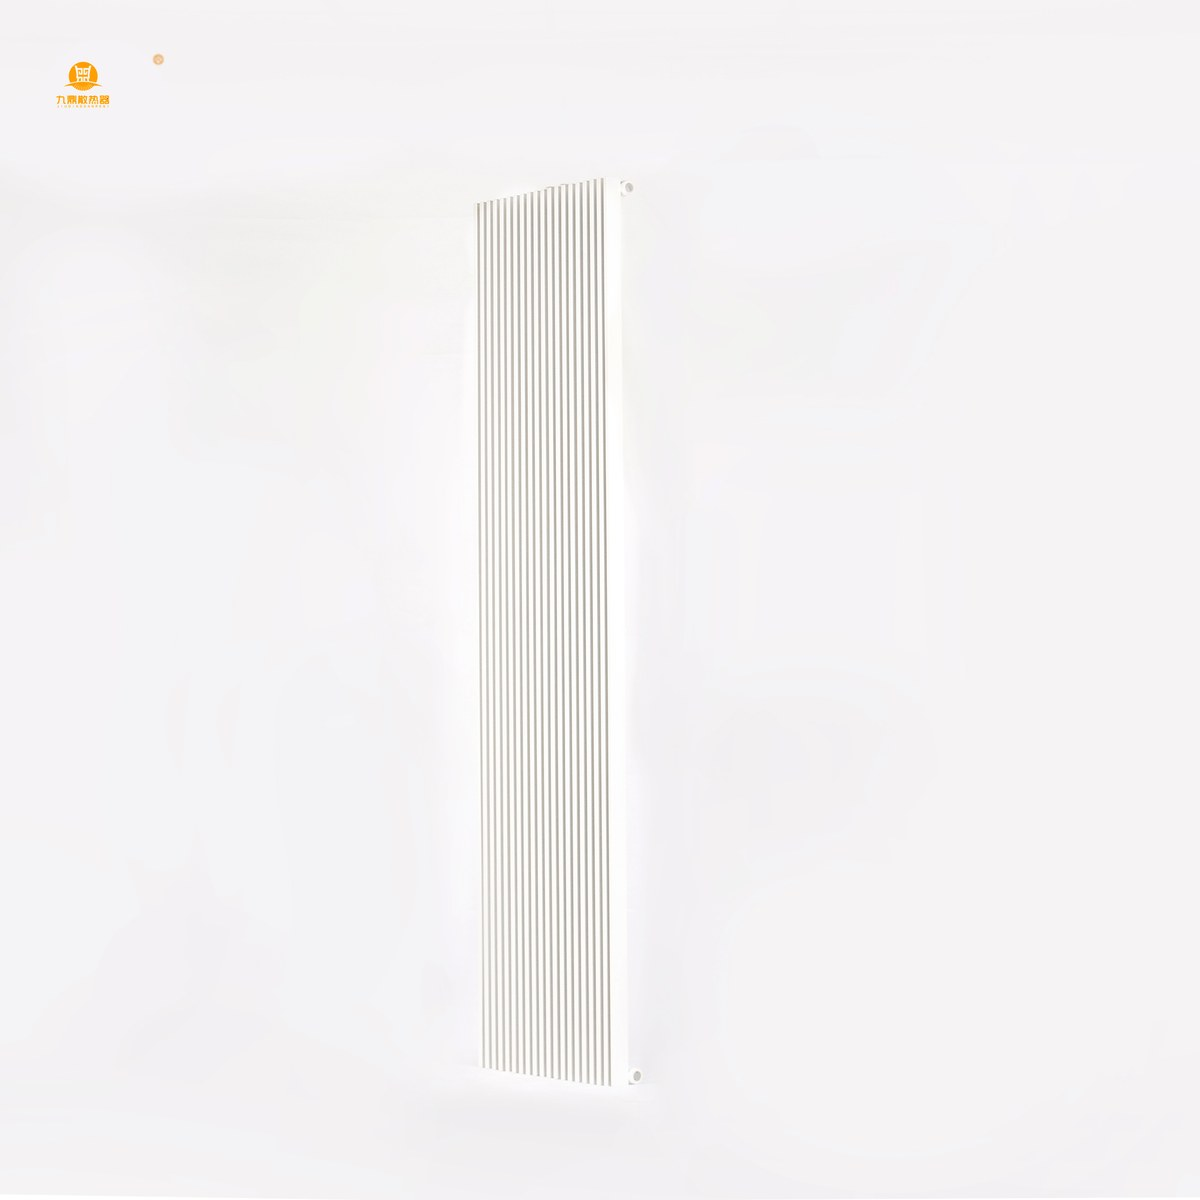
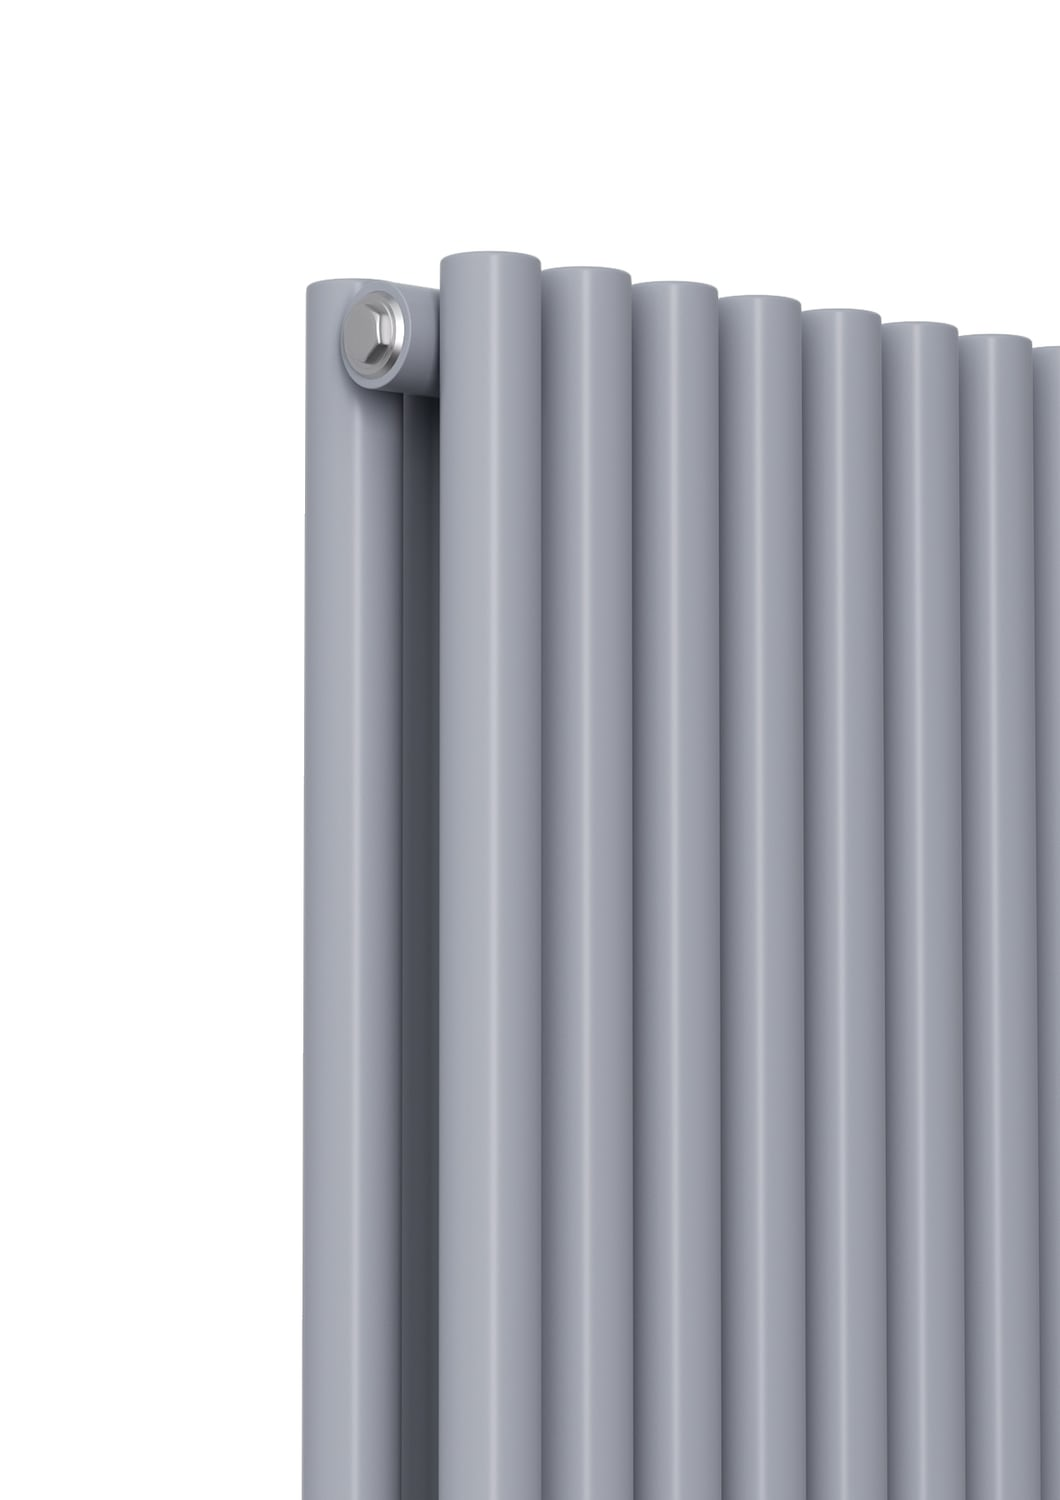
feat(products): JD25Y pilot — HD 3D-render images + product overview copy
Replace the washed-out white-on-white JD25Y photos with high-res renders from
the product-modelling library: living-room scene as the cover, clean white-bg
product shot, oval-tube close-ups, and a full front view. Add an optional
per-product/per-locale description (rendered above the spec table) and write
the JD25Y overview in zh + en. Other products are unaffected — the overview
only renders when a description exists.

diff --git a/lib/products.ts b/lib/products.ts
@@ -254,7 +254,7 @@ export const subtitleByLocale: Record<string, Record<string, string>> = {
 
 export const productImages: Record<string, string[]> = {
   "jd50f": ["/assets/products/jd50f/hero.jpg", "/assets/products/jd50f/gallery-1.jpg", "/assets/products/jd50f/detail-1.jpg", "/assets/products/jd50f/gallery-2.jpg", "/assets/products/jd50f/gallery-3.jpg", "/assets/products/jd50f/gallery-4.jpg", "/assets/products/jd50f/scene-1.jpg", "/assets/products/jd50f/scene-2.jpg"],
-  "jd25y": ["/assets/products/jd25y/hero.jpg", "/assets/products/jd25y/gallery-1.jpg", "/assets/products/jd25y/gallery-2.jpg", "/assets/products/jd25y/gallery-3.jpg"],
+  "jd25y": ["/assets/products/jd25y/hero.jpg", "/assets/products/jd25y/gallery-1.jpg", "/assets/products/jd25y/detail-1.jpg", "/assets/products/jd25y/detail-2.jpg", "/assets/products/jd25y/gallery-2.jpg"],
   "jd25-28": ["/assets/products/jd25-28/hero.jpg", "/assets/products/jd25-28/detail-1.jpg", "/assets/products/jd25-28/detail-2.jpg", "/assets/products/jd25-28/detail-3.jpg"],
   "jd50-25": ["/assets/products/jd50-25/hero.jpg", "/assets/products/jd50-25/gallery-1.jpg", "/assets/products/jd50-25/detail-1.jpg"],
   "jd50-25jz": ["/assets/products/jd50-25jz/hero.jpg", "/assets/products/jd50-25jz/gallery-1.jpg", "/assets/products/jd50-25jz/gallery-2.jpg", "/assets/products/jd50-25jz/gallery-3.jpg", "/assets/products/jd50-25jz/detail-1.jpg", "/assets/products/jd50-25jz/scene-1.jpg", "/assets/products/jd50-25jz/scene-2.jpg"],
@@ -272,6 +272,23 @@ export const productImages: Record<string, string[]> = {
 
 export function getProductImages(slug: string): string[] {
   return productImages[slug] || [];
+}
+
+// Marketing intro copy per product, per locale. Optional — rendered as an
+// "Overview" paragraph above the spec table when present. Sourced from the
+// product catalog and the 3D product renders. Locales without an entry fall
+// back to English.
+export const productDescriptions: Record<string, Record<string, string>> = {
+  "jd25y": {
+    zh: "JD25Y 是九鼎搭焊系列的代表款设计型散热器，以细密排列的 Φ25 立管搭配 Φ35 主管，勾勒出简洁利落的垂直线条——既是供暖设备，也是墙面上的一件装饰。可选单排 / 双排结构，散热量覆盖 449–1476 W，适配 600 / 1500 / 1800 mm 多种高度，竖装横装皆宜，尤其适合客厅、玄关、卧室等注重格调的空间。整机采用优质低碳钢焊接成型，表面经多道喷涂处理，提供亮光 / 柔光 / 哑光三种质感，标准白色之外还有烟煤灰、黑色，也可按 RAL 色卡定制。通过 CE / EN442 认证，工作压力 1.0 MPa，自 2002 年起出口 80 多个国家，支持 OEM / ODM 定制尺寸、颜色与包装。",
+    en: "The JD25Y is a signature designer radiator from Jiuding's welded series. Slender Φ25 vertical tubes paired with a Φ35 header form clean, upright lines — a heating appliance that doubles as a piece of wall décor. Available in single- or double-panel builds, it delivers 449–1476 W across 600 / 1500 / 1800 mm heights and mounts vertically or horizontally, a natural fit for living rooms, hallways and bedrooms where looks matter. Welded from premium low-carbon steel and finished with a multi-coat powder process, it comes in glossy, reluster or matte textures — standard white plus anthracite and black, or any custom RAL shade. CE / EN442 certified and rated to 1.0 MPa, the JD25Y has been exported to 80+ countries since 2002, with OEM / ODM support for custom sizes, colours and packaging.",
+  },
+};
+
+export function getProductDescription(slug: string, locale: string): string {
+  const d = productDescriptions[slug];
+  if (!d) return "";
+  return d[locale] || d.en || "";
 }
 
 export function getLocalizedSubtitle(slug: string, locale: string): string {

diff --git a/app/[lang]/products/[slug]/page.tsx b/app/[lang]/products/[slug]/page.tsx
@@ -1,6 +1,6 @@
 import type { Metadata } from "next";
 import { getDictionary } from "@/lib/dictionary";
-import { products, getProductBySlug, getProductImages, categoryLabels, getLocalizedSubtitle, approxCenterDistance, testPressureFrom, localizeSpecValue, heatedAreaFrom, heatOutputAtDt30 } from "@/lib/products";
+import { products, getProductBySlug, getProductImages, getProductDescription, categoryLabels, getLocalizedSubtitle, approxCenterDistance, testPressureFrom, localizeSpecValue, heatedAreaFrom, heatOutputAtDt30 } from "@/lib/products";
 import { getPanelSizes, panelDepth } from "@/lib/panelSizes";
 import { getDocumentsForProduct, formatDocTitle, type SiteDocument } from "@/lib/documents";
 import type { Locale } from "@/lib/i18n";
@@ -106,6 +106,7 @@ export default async function ProductDetailPage({ params }: { params: Promise<{ 
 
   const labels = categoryLabels[locale] || categoryLabels.en;
   const images = getProductImages(slug);
+  const description = getProductDescription(slug, locale);
 
   // RU market expects technical parameters first: center distance,
   // working/test pressure and heat output near the top of the page.
@@ -196,6 +197,12 @@ export default async function ProductDetailPage({ params }: { params: Promise<{ 
             <p className="text-sm text-gray-600 leading-relaxed">{d.products.marketLine1}</p>
             <p className="text-sm text-gray-600 leading-relaxed">{d.products.marketLine2}</p>
           </div>
+
+          {description && (
+            <div className="mb-8">
+              <p className="text-gray-600 leading-relaxed whitespace-pre-line">{description}</p>
+            </div>
+          )}
 
           <h2 className="text-xl font-bold mb-4 border-b pb-2">{d.products.specifications}</h2>
           <table className="w-full text-left">
